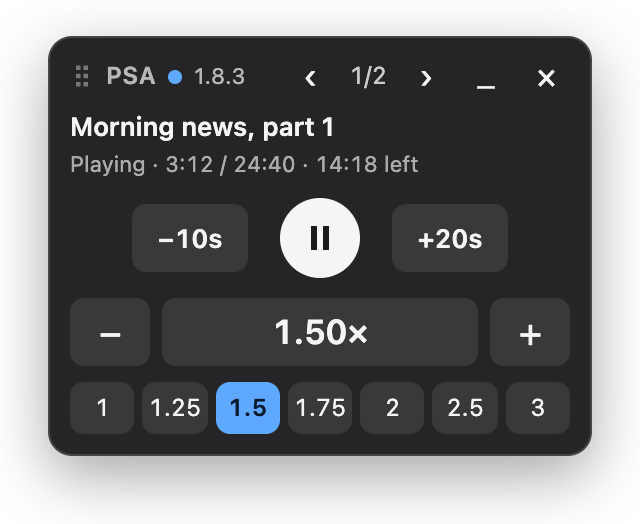
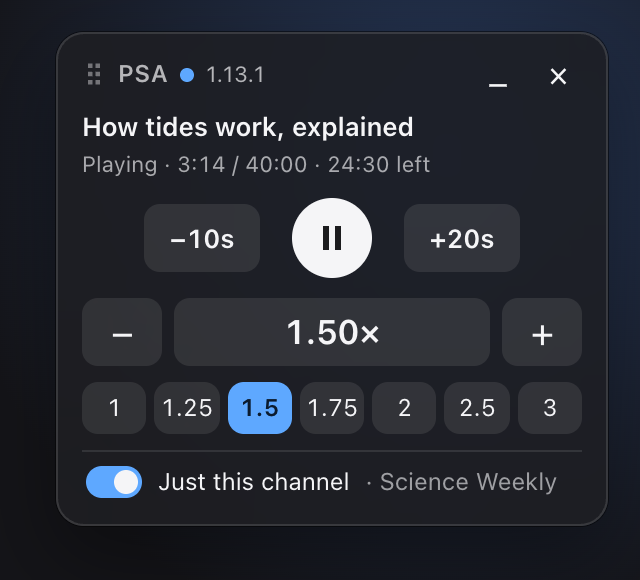
Tidy: a current README screenshot, descriptions brought up to date
docs/panel.png shows the 1.13.1 panel with "Just this channel" on instead
of 1.8.3; package.json describes both the bookmarklet and the extension;
theme.css names the welcome page among its users.

diff --git a/dist/firefox/theme.css b/dist/firefox/theme.css
@@ -1,4 +1,4 @@
-/* The look shared by the extension's own pages (settings and the toolbar popup), in step with PSA's panel:
+/* The look shared by the extension's own pages (settings, the toolbar popup and the welcome page), in step with PSA's panel:
    the same blue, corners and type, light or dark with the system. */
 :root {
   color-scheme: light dark;

diff --git a/src/firefox/theme.css b/src/firefox/theme.css
@@ -1,4 +1,4 @@
-/* The look shared by the extension's own pages (settings and the toolbar popup), in step with PSA's panel:
+/* The look shared by the extension's own pages (settings, the toolbar popup and the welcome page), in step with PSA's panel:
    the same blue, corners and type, light or dark with the system. */
 :root {
   color-scheme: light dark;

diff --git a/README.md b/README.md
@@ -2,7 +2,7 @@
 
 PSA is a bookmarklet that opens a small floating panel for the HTML5 `<audio>` and `<video>` on the current page. It works on any site; nothing in it is specific to one site.
 
-<img src="docs/panel.png" alt="The PSA panel: title and status, −10s / Play / +20s buttons, the speed readout at 1.50× with − and + buttons, and speed presets" width="320">
+<img src="docs/panel.png" alt="The PSA panel on a YouTube video: title and status, −10s / Pause / +20s buttons, the speed readout at 1.50× with − and + buttons, speed presets, and &quot;Just this channel&quot; switched on" width="320">
 
 - Speed from 0.25× to 4×: −/+ in 0.05 steps, presets (1, 1.25, 1.5, 1.75, 2, 2.5, 3), click the readout and type a value (`1.6`, `1.6x`, `160%`), or use the [keyboard shortcuts](#keyboard-shortcuts).
 - Applies the speed to **every** audio and video element on the page, including ones added later, ones inside open shadow roots and same-origin iframes, and off-page `new Audio()` players.
